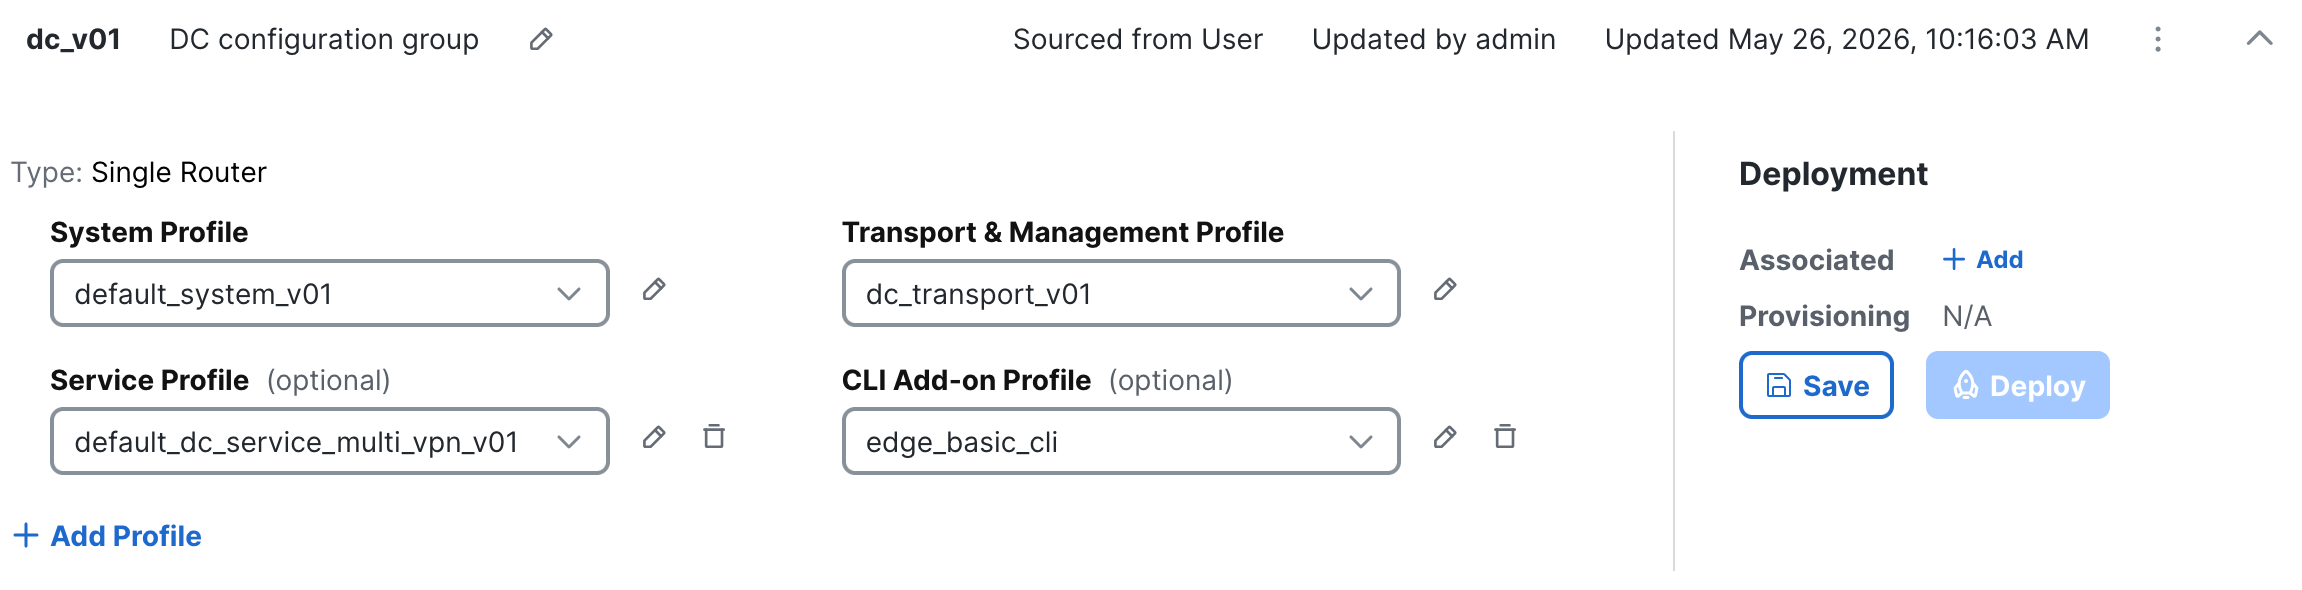
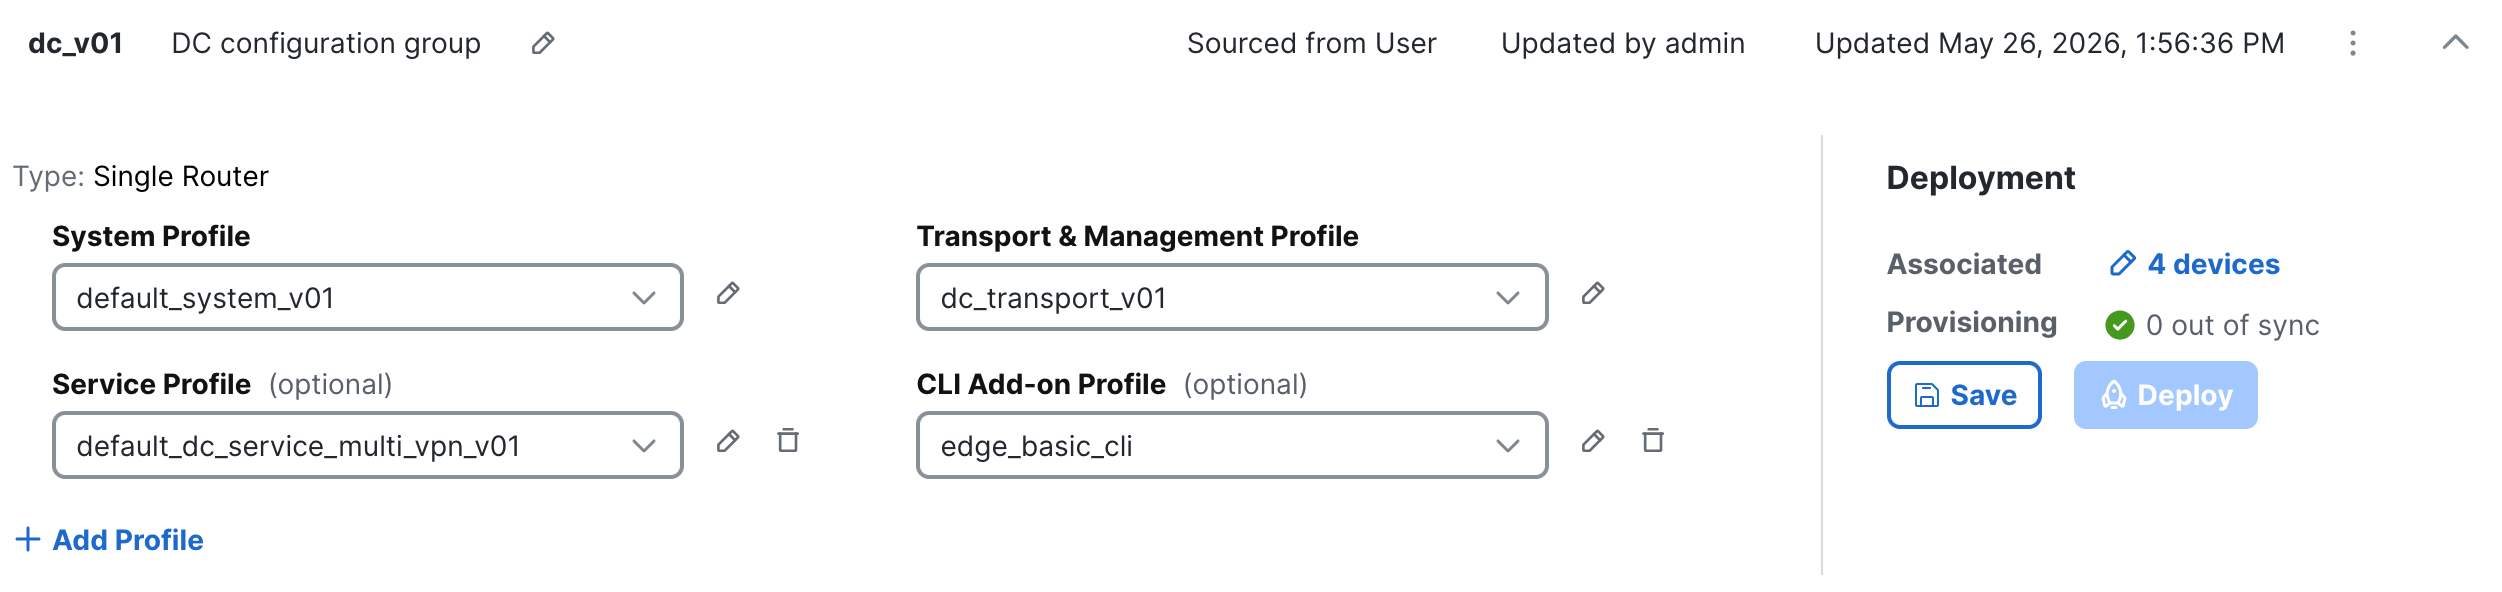
Add intermediate deployment task

diff --git a/docs/lab1-dc_config.md b/docs/lab1-dc_config.md
@@ -348,8 +348,11 @@ Assign interfaces and a tracking instance
 
 16. **Repeat steps 14 and 15 above** for routers **POD01-dc2-edge1 - C8K** and **POD01-dc2-edge2 - C8K**, using the information below to guide you:
 
+    !!! reminder
+        For each hostname, remember to replace **nn** with your pod number for today's lab!
+
     - Device POD01-dc2-edge1:
-        - Host Name: **PODnn-dc2-edge1** (replace **nn** with your pod number for today's lab)
+        - Host Name: **PODnn-dc2-edge1**
         - vpn0_mpls_ip_address: **172.16.2.3**
         - vpn0_inet_ip_address: **172.16.1.3**
     - Device POD01-dc2-edge2:
@@ -367,6 +370,10 @@ Assign interfaces and a tracking instance
 
     <img src="../assets/images/lab01/task05/step-20_deploy-success.png" alt="Deployment submitted" width="300px">
 
+21. In the left navigation bar, click **Configuration** then **Configuration Groups**. Click the **dc_v01** Configuration Group.
+22. Verify the deployment now indicates 4 Devices, with a Provisioning status of "0 out of sync"
+
+    <img src="../assets/images/lab01/task05/step-22_verify-deployment.png" alt="All devices in sync!" width="300px">
 
 ---
 
@@ -416,7 +423,7 @@ Service Profiles are used to define the overlay networks (VPNs) in the SD-WAN to
 
 ---
 
-## Task 7: Complete and Deploy the Configuration Group
+## Task 7: Complete the dc_v01 Configuration Group
 
 1. Click the **dc_v01** configuration group to expand the settings.
 2. Click **+ Add Profile** and then click **Service Profile**
@@ -444,6 +451,8 @@ Service Profiles are used to define the overlay networks (VPNs) in the SD-WAN to
 
     ??? tip "Step Help"
         <img src="../assets/images/lab01/task07/step-07_save-config-group.png" alt="Save the configuration group" width="300px">
+
+
 
 8. In the Configuration Group "Deployment" section, observe that no devices are associated. Click **+ Add** to associate devices with the configuration group.
 
